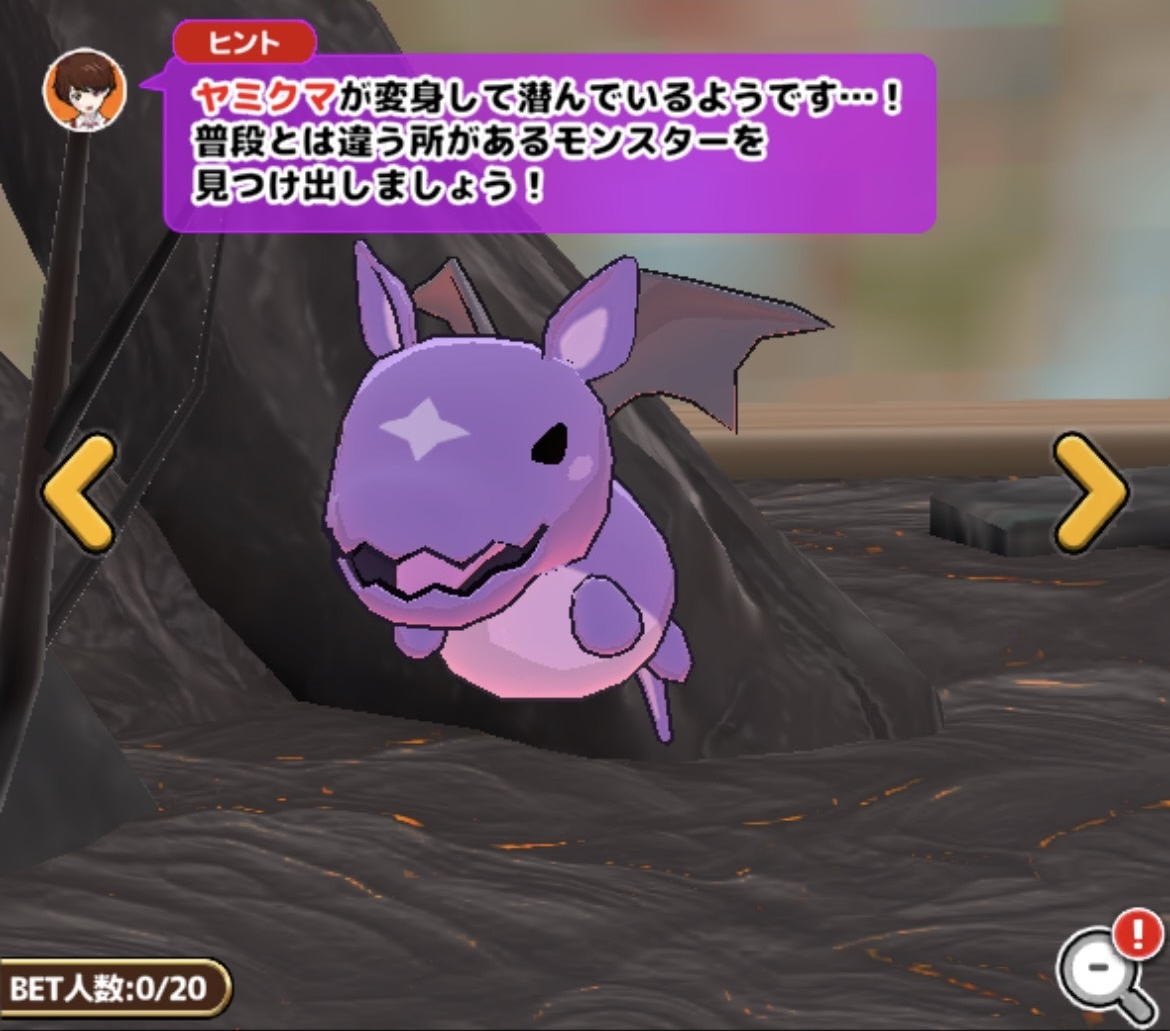
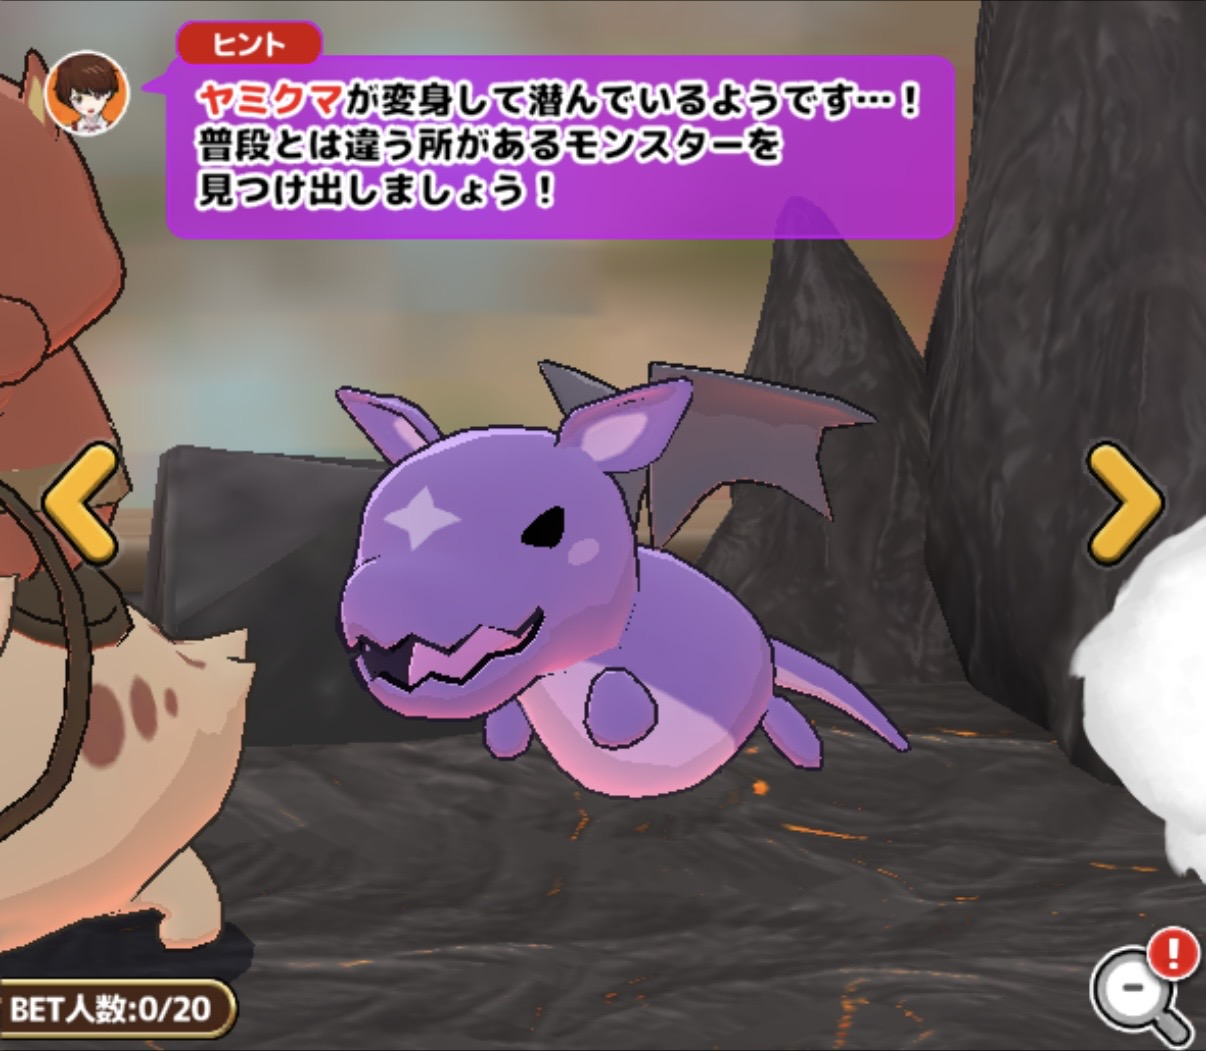
情報更新

diff --git a/index.html b/index.html
@@ -37,7 +37,7 @@
   <link rel="preconnect" href="https://fonts.googleapis.com">
   <link rel="preconnect" href="https://fonts.gstatic.com" crossorigin>
   <link href="https://fonts.googleapis.com/css2?family=Dela+Gothic+One&family=Zen+Antique&family=Noto+Sans+JP:wght@400;500;700;900&display=swap" rel="stylesheet">
-  <link rel="stylesheet" href="style.css?v=0.7.4">
+  <link rel="stylesheet" href="style.css?v=0.7.5">
 </head>
 <body>
 
@@ -215,8 +215,8 @@
     </svg>
   </div>
 
-  <script src="data-normal.js?v=0.7.4" defer></script>
-  <script src="data-anomaly.js?v=0.7.4" defer></script>
-  <script src="script.js?v=0.7.4" defer></script>
+  <script src="data-normal.js?v=0.7.5" defer></script>
+  <script src="data-anomaly.js?v=0.7.5" defer></script>
+  <script src="script.js?v=0.7.5" defer></script>
 </body>
 </html>

diff --git a/data-anomaly.js b/data-anomaly.js
@@ -346,6 +346,11 @@ const ANOMALY_DATA = {
       compareIndex: 1
     },
     {
+      note: "耳",
+      point: "耳が通常時と比べて傾いている。",
+      compareIndex: 2
+    },
+    {
       note: "尻尾",
       point: "尻尾が通常時と比べて長い。",
       compareIndex: 1
